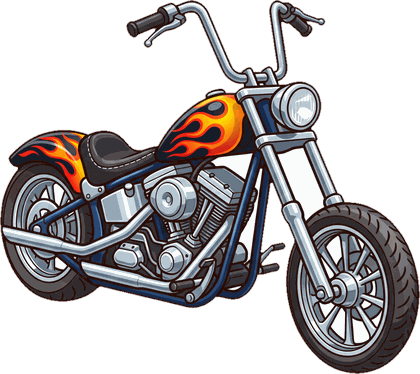
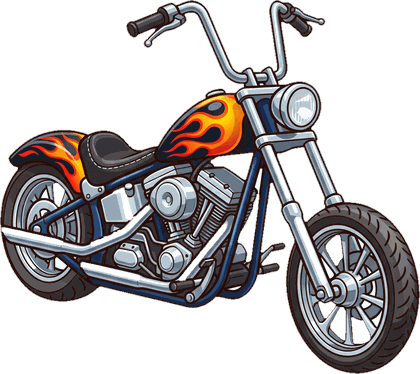
Motos et voitures : vides entre les rayons et le cadre détourés

diff --git a/tools/process.py b/tools/process.py
@@ -138,7 +138,7 @@ def run(name):
         im.save(os.path.join(dst, name + '.png'), optimize=True); print(name, im.size); return
     if kind not in NOCUT:
         im.thumbnail((900, 900)) if max(im.size) > 900 else None
-        jewel = name.startswith(('item-o-', 'item-g-', 'item-w-'))   # bijoux et montres : les creux (chaîne, anneau, bracelet) sont des trous
+        jewel = name.startswith(('item-o-', 'item-g-', 'item-w-', 'item-m-', 'item-v-'))   # + motos et voitures : vides entre rayons, cadre, vitres   # bijoux et montres : les creux (chaîne, anneau, bracelet) sont des trous
         im = cutout(im, POCKETS.get(name, 'sides' if name.startswith(('ach-', 'item-t-')) else 'all' if jewel else None), tol=TOL.get(name, 60),
                     shadow=name.startswith('item-') and not name.startswith('item-cr-'))   # trophées : on vide le creux des anses ; objets : jamais d'ombre portée
     m = MAX.get(kind, MAX['default'])
